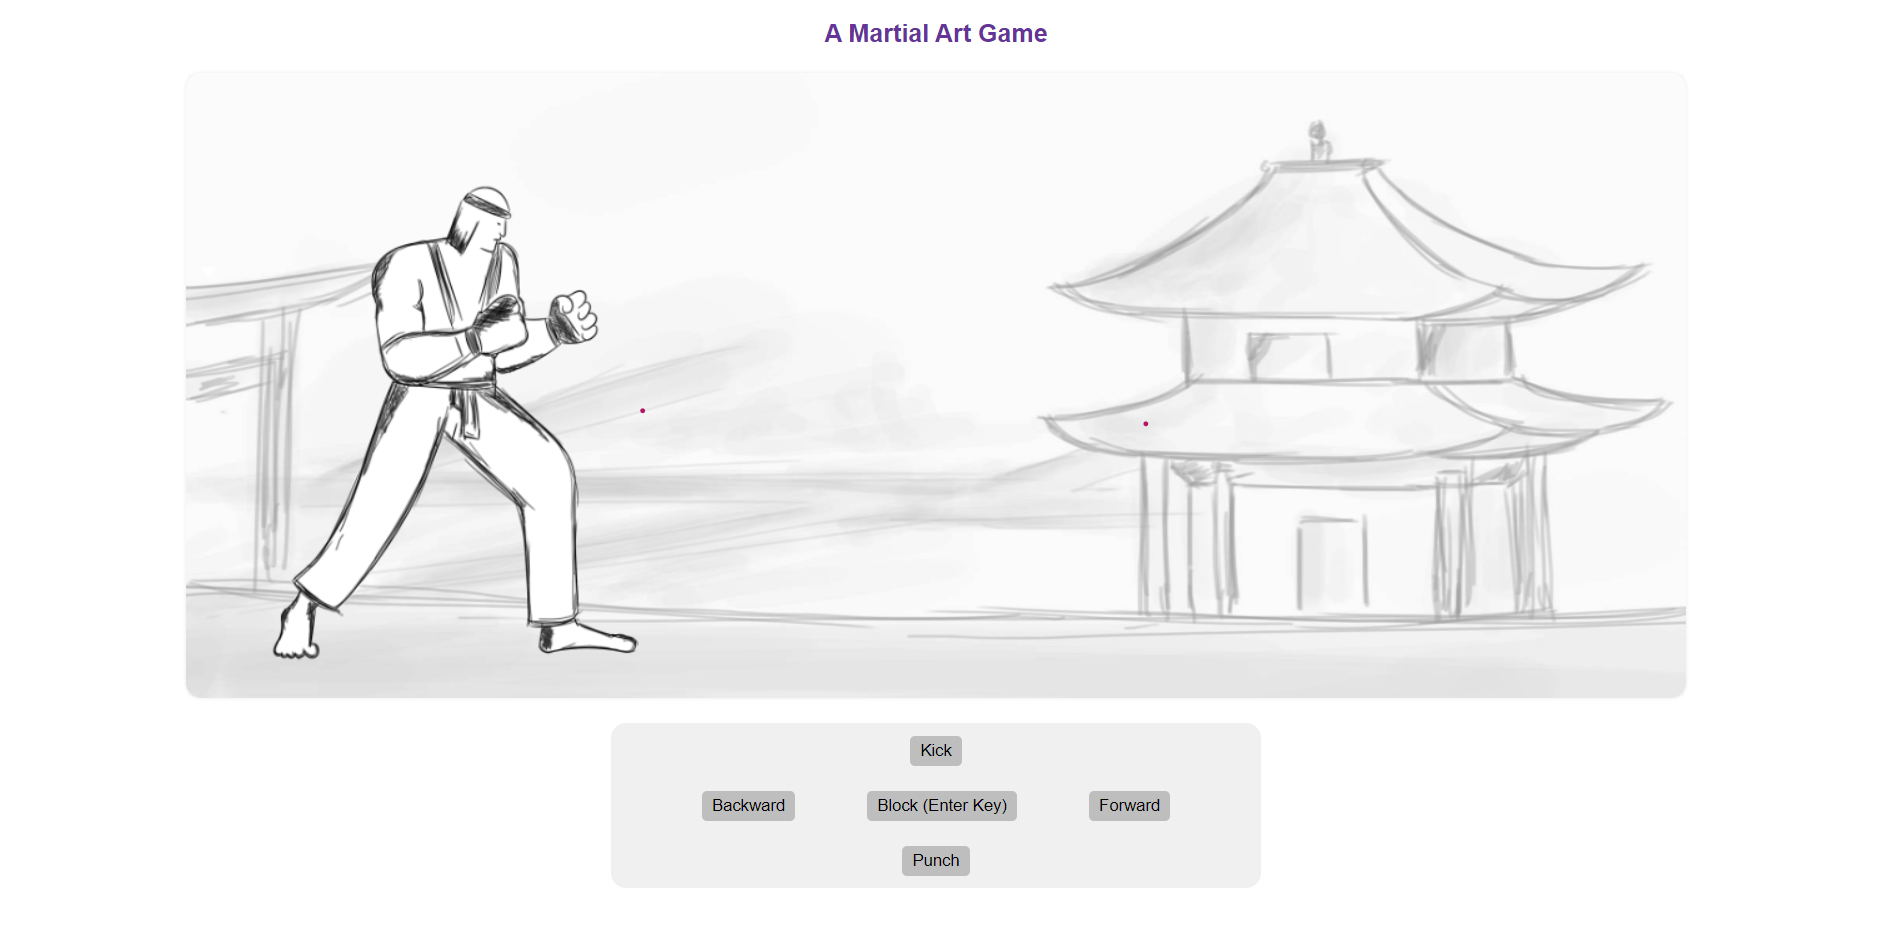
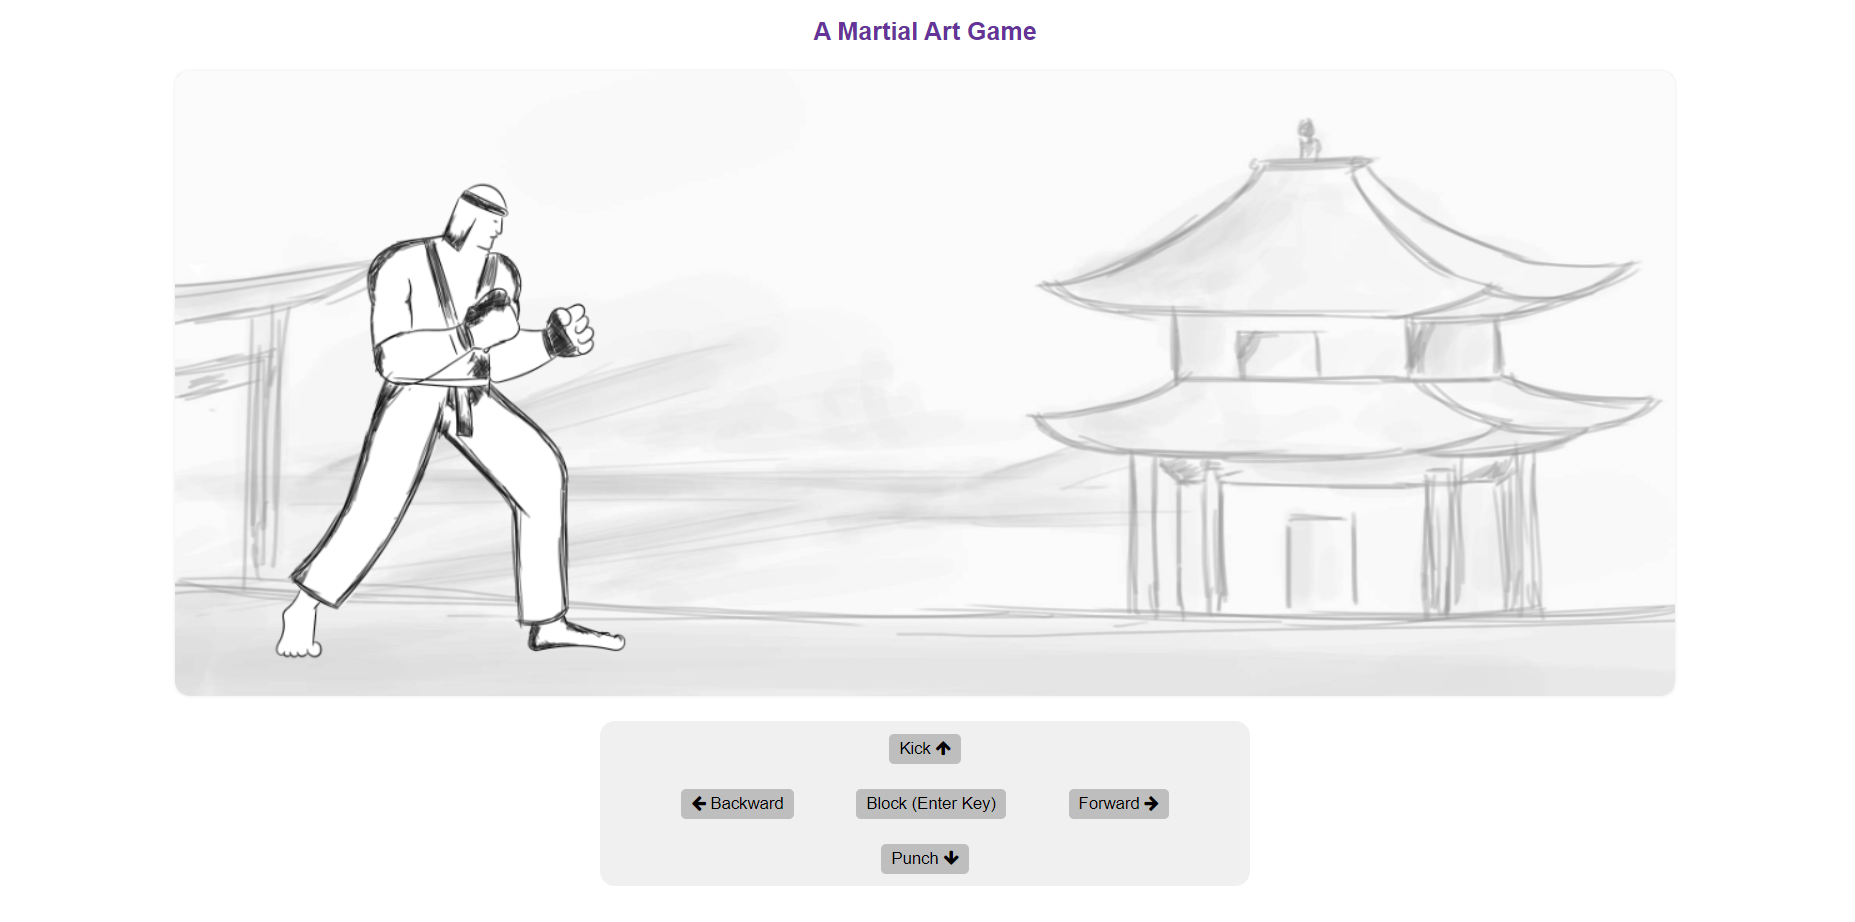
updated preview image

diff --git a/index.html b/index.html
@@ -74,7 +74,7 @@
         </div>
     </div>
 
-    <script src="https://use.fontawesome.com/b51b687ff6.js" crossorigin="anonymous"></script>
+    <script src="https://use.fontawesome.com/b51b687ff6.js"></script>
     <script src="/main.js"></script>
 </body>
 </html>

diff --git a/README.md b/README.md
@@ -3,4 +3,4 @@ Made using HTML, CSS and Javascript
 <br />
 
 ### Page Preview Image
-<img src='./images/page_img.png' style="margin: 20px; border-radius: 8px;">
+<img src='./images/page_img.png' style="margin: 20px;">
